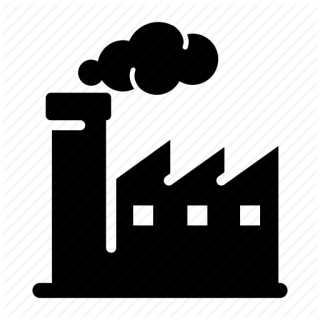
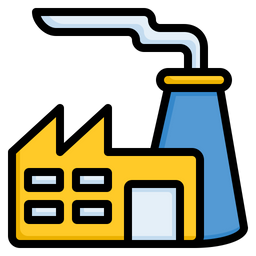
mod

diff --git a/GUI/alternative2.py b/GUI/alternative2.py
@@ -1,0 +1,201 @@
+#Kernel Manipulation Module
+import sys
+
+#Visual Modules
+from PyQt6.QtWidgets import (
+    QApplication, QMainWindow, QTableWidget, 
+    QTableWidgetItem, QDockWidget, QFormLayout, 
+    QLineEdit, QWidget, QPushButton, QSpinBox, 
+    QMessageBox, QToolBar, QMessageBox
+)
+from PyQt6.QtCore import Qt,QSize
+from PyQt6.QtGui import QIcon, QAction
+
+from PyQt6.QtWidgets import *
+
+
+
+
+
+
+#Modules to Create, Read and Update
+#from filial import Filial
+#from produto import Produto
+#from matriz import Matriz
+
+
+
+#Style Module
+#from qt_material import apply_stylesheet
+
+class MainWindow2(QMainWindow):
+
+    def __init__(self, *args, **kwargs):
+        super().__init__(*args, **kwargs)
+        self.setWindowTitle('Sistema de Cadastro de Matriz e Filial')
+        self.setGeometry(100, 100, 600, 400)
+
+        #Produto Teste
+        products = [
+            {'Local': 'Area 52', 'Endereço': 'R.Perimental Nosso Refugio', 'Tipo': 'Filial'},
+        ]
+
+        self.table = QTableWidget(self)
+        self.setCentralWidget(self.table)
+
+        self.table.setColumnCount(3)
+        self.table.setColumnWidth(0, 90)
+        self.table.setColumnWidth(1, 90)
+        self.table.setColumnWidth(2, 90)
+
+        self.table.setHorizontalHeaderLabels(products[0].keys())
+        self.table.setRowCount(len(products))
+
+        #Lock Maximaze button
+        #Not Working 
+        #MainWindow.setWindowFlags(Qt.WindowType.CustomizeWindowHint | Qt.WindowType.WindowCloseButtonHint | Qt.WindowType.WindowMinimizeButtonHint)
+
+
+
+        row = 0
+        for e in products:
+            self.table.setItem(row, 0, QTableWidgetItem(e['Local']))
+            self.table.setItem(row, 1, QTableWidgetItem(e['Endereço']))
+            self.table.setItem(row, 2, QTableWidgetItem(e['Tipo']))
+            row += 1
+
+        dock = QDockWidget('Salvar Produto')
+        dock.setFeatures(QDockWidget.DockWidgetFeature.NoDockWidgetFeatures)
+        self.addDockWidget(Qt.DockWidgetArea.RightDockWidgetArea, dock)
+
+        # create form
+        form = QWidget()
+        layout = QFormLayout(form)
+        form.setLayout(layout)
+
+
+        self.local = QLineEdit(form)
+        self.endereco = QLineEdit(form)
+        self.tipo = QLineEdit(form)
+
+        layout.addRow('Local:', self.local)
+        layout.addRow('Endereço:', self.endereco)
+        layout.addRow('Tipo:', self.tipo)
+
+
+        btn_add = QPushButton('Salvar Produto')
+        btn_add.clicked.connect(self.add_product)
+        layout.addRow(btn_add)
+
+        # add delete & edit button
+        toolbar = QToolBar('main toolbar')
+        toolbar.setIconSize(QSize(16,16))
+        self.addToolBar(toolbar)
+
+
+        delete_action = QAction(QIcon('./assets/exclude.png'), '&Delete', self)
+        delete_action.triggered.connect(self.delete)
+        toolbar.addAction(delete_action)
+        dock.setWidget(form)
+
+        change_window_action = QAction(QIcon('./assets/product.png'), '&Change to Matriz System', self)
+        change_window_action.triggered.connect(self.change)
+        toolbar.addAction(change_window_action)
+        dock.setWidget(form)
+
+        
+
+
+    def delete(self):
+        current_row = self.table.currentRow()
+        if current_row < 0:
+            return QMessageBox.warning(self, 'Deletar')
+
+        button = QMessageBox.question(
+            self,
+            'Alerta',
+            'Deseja Apagar o produto cadastrado',
+            QMessageBox.StandardButton.Yes |
+            QMessageBox.StandardButton.No
+            
+        )
+        if button == QMessageBox.StandardButton.Yes:
+            self.table.removeRow(current_row)
+
+
+
+    def valid(self):
+        local = self.local.text().strip()
+        endereco = self.endereco.text().strip()
+        tipo = self.tipo.text().strip()
+
+        
+        if not local:
+            QMessageBox.critical(self, 'Error', 'Insira o nome do Local')
+            self.local.setFocus()
+            return False
+
+        if not endereco:
+            QMessageBox.critical(self, 'Error', 'Insira o endereço do local')
+            self.endereco.setFocus()
+            return False
+
+        if not tipo:
+            QMessageBox.critical(self, 'Error', 'Insira se é Matriz o Filial/Matriz')
+            self.endereco.setFocus()
+            return False
+
+        #try:
+            #qnt = int(self.qnt.text().strip())
+        #except ValueError:
+            #QMessageBox.critical(self, 'Error', 'Insira a quantidade correta ')
+            #self.age.setFocus()
+            #return False
+
+         #Something to not buffer overflow   
+        #if qnt <= 0 or qnt >= 1000000:
+            #QMessageBox.critical(
+                #self, 'Error', 'Valor de Produto Ultrapassado')
+            #return False
+
+        return True
+
+    def reset(self):
+        self.local.clear()
+        self.endereco.clear()
+        #self.qnt.clear()
+        self.tipo.clear()
+
+
+
+    def add_product(self):
+        if not self.valid():
+            return
+
+        row = self.table.rowCount()
+        self.table.insertRow(row)
+        self.table.setItem(row, 0, QTableWidgetItem(
+            self.local.text().strip())
+        )
+        self.table.setItem(
+            row, 1, QTableWidgetItem(self.endereco.text())
+        )
+
+        self.table.setItem(
+            row, 2, QTableWidgetItem(self.tipo.text())
+        )
+
+        self.reset()
+
+    def change(self):
+        self.window = MainWindow2()
+        self.window.show()
+        
+
+
+if __name__ == '__main__':
+    app = QApplication(sys.argv)
+    #apply_stylesheet(app, theme='dark_teal.xml')
+    window = MainWindow2()
+    window.show()
+    sys.exit(app.exec())

diff --git a/GUI/alternative.py b/GUI/alternative.py
@@ -13,6 +13,8 @@ from PyQt6.QtGui import QIcon, QAction
 
 from PyQt6.QtWidgets import *
 
+from alternative2 import MainWindow2
+
 
 #Modules to Create, Read and Update
 #from filial import Filial
@@ -31,8 +33,9 @@ class MainWindow(QMainWindow):
         self.setWindowTitle('Sistema de Cadastro de Gestão')
         self.setGeometry(100, 100, 600, 400)
 
+        #Produto Teste
         products = [
-            {'Produto': 'Metal', 'Valor R$': '1000', 'Unidades': 25, 'Estoque': 'ZR456Filial'},
+            {'Produto': 'Metal', 'Valor R$': '1000', 'Unidades': 25, 'Destino': 'ZR456Filial'},
         ]
 
         self.table = QTableWidget(self)
@@ -58,7 +61,7 @@ class MainWindow(QMainWindow):
             self.table.setItem(row, 0, QTableWidgetItem(e['Produto']))
             self.table.setItem(row, 1, QTableWidgetItem(e['Valor R$']))
             self.table.setItem(row, 2, QTableWidgetItem(str(e['Unidades'])))
-            self.table.setItem(row, 3, QTableWidgetItem(str(e['Estoque'])))
+            self.table.setItem(row, 3, QTableWidgetItem(str(e['Destino'])))
             row += 1
 
         dock = QDockWidget('Salvar Produto')
@@ -80,7 +83,7 @@ class MainWindow(QMainWindow):
         layout.addRow('Produto', self.product)
         layout.addRow('Valor R$:', self.value)
         layout.addRow('Unidades:', self.qnt)
-        layout.addRow('Estoque:', self.estoque)
+        layout.addRow('Destino:', self.estoque)
 
 
         btn_add = QPushButton('Salvar Produto')
@@ -103,7 +106,11 @@ class MainWindow(QMainWindow):
         toolbar.addAction(transfer_action)
         dock.setWidget(form)
 
-        change_window_action = QAction(QIcon('./assets/matriz.png'), '&Transition', self)
+        change_window_action = QAction(QIcon('./assets/industry.png'), '&Change to Matriz System', self)
+        change_window_action.triggered.connect(self.change)
+        toolbar.addAction(change_window_action)
+        dock.setWidget(form)
+
         
 
 
@@ -155,7 +162,7 @@ class MainWindow(QMainWindow):
 
         if x == QMessageBox.StandardButton.Yes:
              dialog = QMessageBox(parent=self, text="Transferência Realizada com Sucesso")
-             dialog.setWindowTitle("Message Dialog")
+             dialog.setWindowTitle("Aviso")
              dialog.setIcon(QMessageBox.Icon.Information)
              ret = dialog.exec()
              #Saving data in database
@@ -163,12 +170,6 @@ class MainWindow(QMainWindow):
                 #f1.create_product(product, value, qnt)
            
 
-    
-
-        
-        
-        
-   
 
     def valid(self):
         product = self.product.text().strip()
@@ -235,6 +236,11 @@ class MainWindow(QMainWindow):
         )
 
         self.reset()
+
+    def change(self):
+        self.window = MainWindow2()
+        self.window.show()
+        
 
 
 if __name__ == '__main__':

diff --git a/GUI/produto.py b/GUI/produto.py
@@ -3,6 +3,8 @@ from crud_operation import CrudOperation
 from typing import Final
 
 
+
+#Using Cryptography
 with open("edit_pdt.txt", "r") as arquivo:
     TABLE = arquivo.readline().strip()
     FIELD1 = arquivo.readline().strip()
@@ -21,7 +23,10 @@ class Produto:
 
 
     def create_product(self, nome, valor, quantidade):
-         CrudOperation.create(str(TABLE), str(FIELD1), str(FIELD2), str(FIELD3), nome, valor, quantidade)
+        if quantidade <=0:
+            print("Não é possível transferir nada")
+        else:
+            CrudOperation.create(str(TABLE), str(FIELD1), str(FIELD2), str(FIELD3), nome, valor, quantidade)
 
     def edit_product(self,old_info, new_info, select_code):
         if select_code == 1:

diff --git a/GUI/filial.py b/GUI/filial.py
@@ -40,9 +40,9 @@ class Filial(CrudOperation):
 
     
     
-filial1 = Filial('filial1', 'ferro', 'avenida do aço')
+#filial1 = Filial('filial1', 'ferro', 'avenida do aço')
 
-filial1.create_filial(filial1.nome, filial1.tipo, filial1.endereco)
+#filial1.create_filial(filial1.nome, filial1.tipo, filial1.endereco)
 
 #filial1.delete_filial(filial1.nome)
 

diff --git a/GUI/main.py b/GUI/main.py
@@ -1,12 +1,10 @@
-from operator import itemgetter
+
 from PyQt5 import QtCore, QtGui, QtWidgets
 from PyQt5.QtWidgets import *
 
 from qt_material import apply_stylesheet
 
-from . import Filial
 
-print(Filial())
 
 
 class Ui_MainWindow(object):
